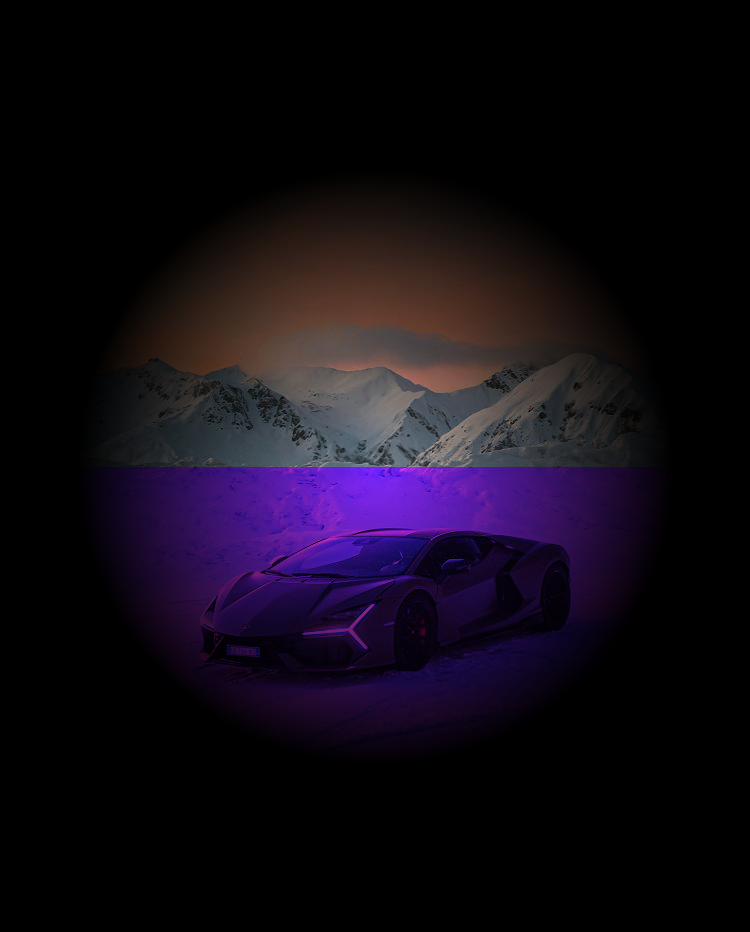
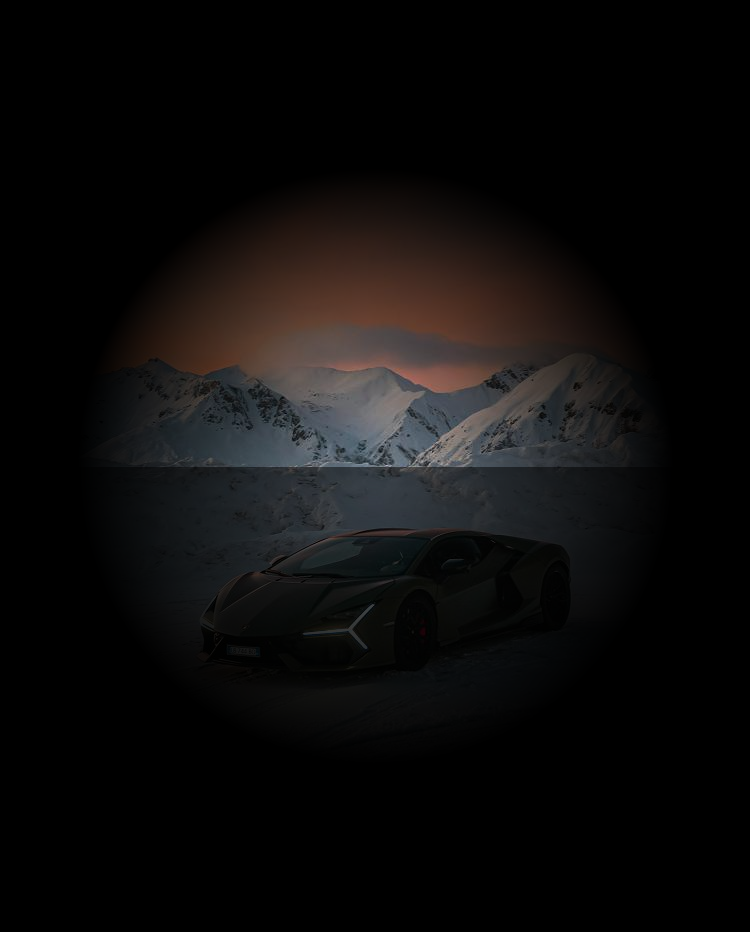
Potentially merge the two filters possibly??????

Changed region(s): [[0.1533, 0.4979, 0.8587, 0.7779]]

diff --git a/filter1.cc b/filter1.cc
@@ -40,13 +40,14 @@ void filter1(vector<vector<vector<int>>> &vec) {
 			int b = vec[i][j][BLUE];
 
 
-			/*
+			
 			//Halftone - every other block of 5x5 pixels is black
-			if ((i/5 + j/5) % 2) {
+		/*	if ((i/5 + j/5) %2) {
 				vec.at(i).at(j).at(RED) = 0;
 				vec.at(i).at(j).at(GREEN) = 0;
 				vec.at(i).at(j).at(BLUE) = 0;
-			}
+			} */
+			/*
 			else {
 				//Color Rotate
 				vec.at(i).at(j).at(RED) = g;
@@ -73,15 +74,16 @@ void filter1(vector<vector<vector<int>>> &vec) {
 				*/
 			}
 
-			/* Double the brightness of every pixel
-			vec.at(i).at(j).at(RED) *= 2;
-			vec.at(i).at(j).at(GREEN) *= 2;
-			vec.at(i).at(j).at(BLUE) *= 2;
-			*/
-
+			// Double the brightness of every pixeli
+			if (j < cols) {
+			vec.at(i).at(j).at(RED) *= 0.5;
+			vec.at(i).at(j).at(GREEN) *= 0.5;
+			vec.at(i).at(j).at(BLUE) *= 0.5;
+			
+		}
 
 			//Greyscale
-			if (j > cols/2) {
+			if (j > cols) {
 				/*
 				vec.at(i).at(j).at(RED) *= 9.3;
 				vec.at(i).at(j).at(GREEN) *= 7.6;
@@ -90,9 +92,9 @@ void filter1(vector<vector<vector<int>>> &vec) {
 			else {
 				*/
 				//int avg = (r+g+b) / 3;
-				vec.at(i).at(j).at(RED) *= 1.10;
-				vec.at(i).at(j).at(GREEN) *= 0.3;
-				vec.at(i).at(j).at(BLUE) *= 2.29;
+				vec.at(i).at(j).at(RED) *= 0.80;
+				vec.at(i).at(j).at(GREEN) *= 0.90;
+				vec.at(i).at(j).at(BLUE) *= 1.29;
 			}
 
 			
